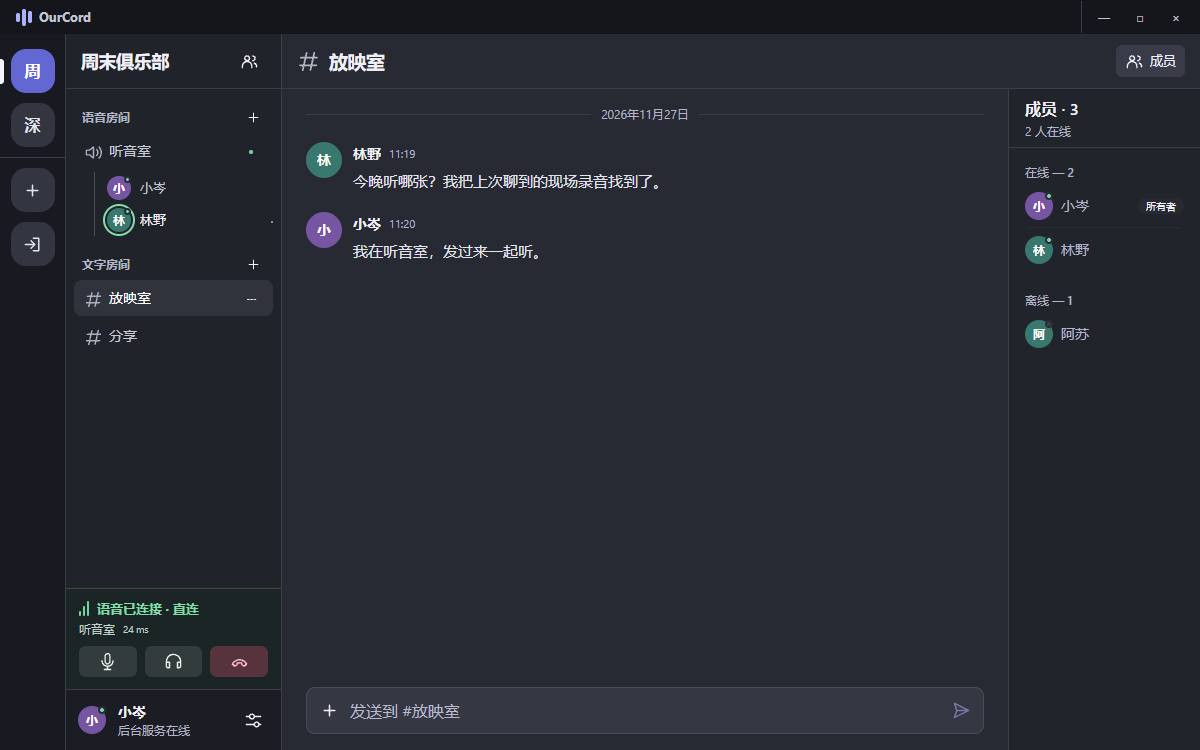
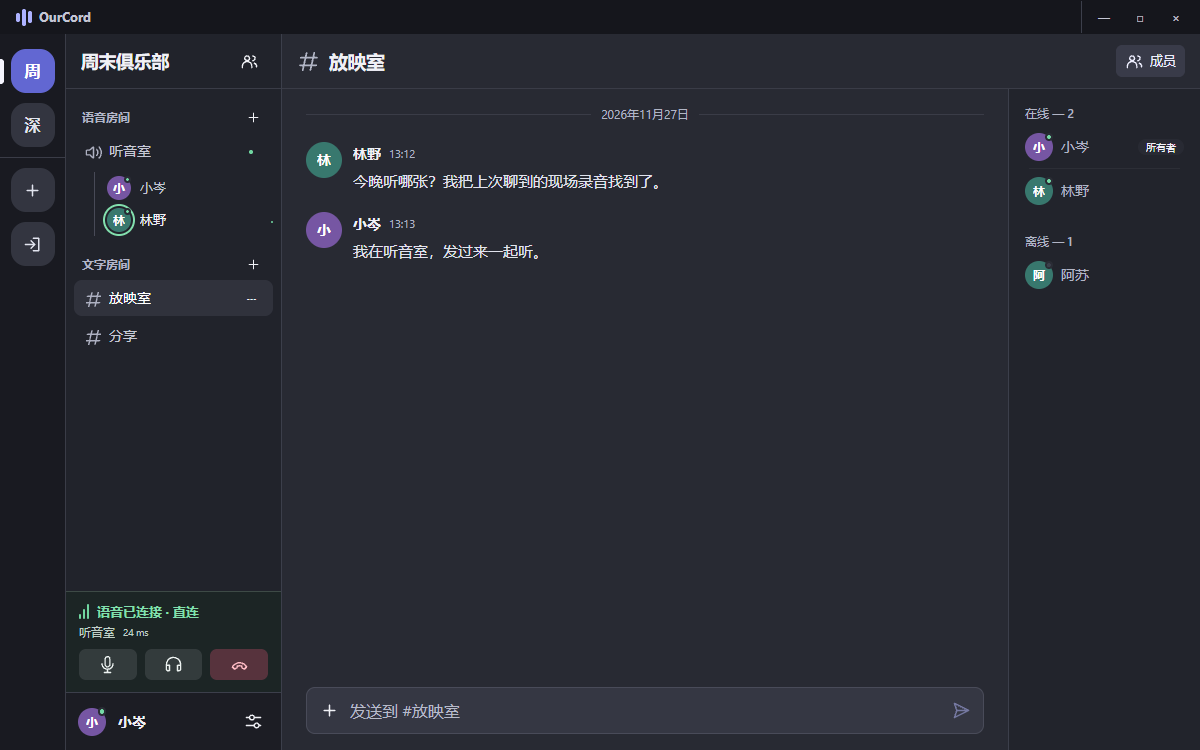
refactor(desktop): remove repeated labels from rooms and settings
Let the channel toolbar, presence groups and day separators establish context once. Keep call state and offline warnings visible, and make participant diagnostics available through a keyboard-accessible disclosure.

diff --git a/ui/desktop/src/styles.css b/ui/desktop/src/styles.css
@@ -126,7 +126,7 @@ button:disabled { cursor: default; }
 .avatar[data-tone="3"] > div { background: #995676; }
 .avatar-online::before { background: #75dba6; }
 .room-directory footer { background: #1c1d24; min-height: 58px; }
-.room-directory footer small, .member-directory header p, .member-directory h3, .member-directory .list-row { color: var(--muted); }
+.member-directory h3, .member-directory .list-row { color: var(--muted); }
 .studio-main, .channel-content, .channel-chat { display: flex; flex-direction: column; min-width: 0; min-height: 0; }
 .studio-main { overflow: hidden; }
 .room-heading { flex: none; display: flex; align-items: center; gap: 9px; }
@@ -137,11 +137,9 @@ button:disabled { cursor: default; }
 .channel-layout { display: flex; flex: 1; min-width: 0; min-height: 0; }
 .channel-content { flex: 1; }
 .channel-chat { flex: 0 0 clamp(275px, 25vw, 365px); border-left: 1px solid var(--line); background: var(--color-base-200); }
-.channel-chat > h2 { flex: none; display: flex; align-items: center; gap: 8px; padding: 11px 15px; border-bottom: 1px solid var(--line); font-size: 14px; font-weight: 650; }
 .channel-chat .message-list { padding-inline: 15px; }
 .channel-chat .message-composer { margin-inline: 10px; }
 .member-directory { flex: 0 0 clamp(172px,16vw,218px); background: #22242c; }
-.member-directory > header { min-height: 56px; }
 .member-directory .list-row { gap: 8px; }
 .message-list { flex: 1; min-height: 0; overflow-y: auto; padding: 16px var(--gutter); }
 .day-rule { display: flex; align-items: center; gap: 10px; color: var(--muted); font-size: 12px; }
@@ -185,14 +183,36 @@ button:disabled { cursor: default; }
 .seat-body > .avatar > div { width: 64px; height: 64px; font-size: 25px; }
 .is-speaking .seat-body > .avatar > div { box-shadow: 0 0 0 6px #38524a; }
 .seat-body > .avatar::before { display: none; }
-.seat-label { position: absolute; left: 11px; right: 22px; bottom: 9px; min-width: 0; font-size: 13px; }
+.seat-label { position: absolute; left: 11px; right: 38px; bottom: 9px; min-width: 0; font-size: 13px; }
 .seat-label strong { justify-content: flex-start; color: #f3f4f8; }
-.seat-label .text-xs { color: #b7bdc9; }
 .talking-label { color: var(--live); }
-.seat-quality { position: absolute; right: 10px; bottom: 10px; }
+.seat-quality { position: absolute; right: 6px; bottom: 6px; }
+.seat-quality summary {
+  display: grid;
+  width: 28px;
+  height: 28px;
+  place-items: center;
+  border-radius: 5px;
+  cursor: pointer;
+  list-style: none;
+}
+.seat-quality summary::-webkit-details-marker { display: none; }
+.seat-quality summary:hover, .seat-quality[open] summary { background: var(--color-base-300); }
+.seat-metrics {
+  position: absolute;
+  right: 0;
+  bottom: calc(100% + 4px);
+  width: max-content;
+  max-width: 148px;
+  padding: 6px 9px;
+  border: 1px solid var(--line);
+  border-radius: 6px;
+  background: var(--tree);
+  color: var(--color-base-content);
+  font-size: 12px;
+}
 .login-layout { height: 100%; overflow-y: auto; display: grid; place-items: center; background: #1c1d24; }
 .login-form { width: min(410px,84%); display: grid; gap: 12px; padding: 32px; margin: 24px; border: 1px solid var(--line); border-radius: 14px; background: #262831; }
-.login-brand { display: flex; align-items: center; gap: 8px; color: #c0c4ff; font-weight: 650; }
 .login-form h1 { margin-bottom: 10px; font-size: 29px; font-weight: 700; }
 .login-form label { font-size: 14px; font-weight: 600; }
 .login-form input, .login-form .btn { min-height: 42px; }

diff --git a/ui/desktop/src/components/RoomPanel.tsx b/ui/desktop/src/components/RoomPanel.tsx
@@ -96,25 +96,30 @@ export default function RoomPanel({ lobby, callControls, selectedRoomID, connect
       {lobby && canManage && <button className="btn btn-ghost btn-sm" onClick={onInvite} aria-label="邀请" title="邀请成员"><Icon name="people" /></button>}
     </header>
     <div className="min-h-0 flex-1 overflow-y-auto px-2 py-3">
-      <div className="menu-title flex h-8 flex-row items-center justify-between px-2 text-xs font-medium text-base-content/45">
-        <span>语音房间</span>{lobby && canManage && <IconButton label="新建语音房间" className="btn-xs" onClick={() => onCreateRoom("voice")}><Icon name="plus" /></IconButton>}
-      </div>
-      <ul className="room-list">
-        {voiceRooms.map((room) => roomRow(room))}
-        {voiceRooms.length === 0 && <li className="px-3 py-2 text-xs text-base-content/40">暂无房间</li>}
-      </ul>
-      <div className="menu-title mt-3 flex h-8 flex-row items-center justify-between px-2 text-xs font-medium text-base-content/45">
-        <span>文字房间</span>{lobby && canManage && <IconButton label="新建文字房间" className="btn-xs" onClick={() => onCreateRoom("text")}><Icon name="plus" /></IconButton>}
-      </div>
-      <ul className="room-list">
-        {textRooms.map((room) => roomRow(room))}
-        {textRooms.length === 0 && <li className="px-3 py-2 text-xs text-base-content/40">暂无房间</li>}
-      </ul>
+      {(voiceRooms.length > 0 || canManage) && <>
+        <div className="menu-title flex h-8 flex-row items-center justify-between px-2 text-xs font-medium text-base-content/45">
+          <span>语音房间</span>{lobby && canManage && <IconButton label="新建语音房间" className="btn-xs" onClick={() => onCreateRoom("voice")}><Icon name="plus" /></IconButton>}
+        </div>
+        <ul className="room-list">
+          {voiceRooms.map((room) => roomRow(room))}
+        </ul>
+      </>}
+      {(textRooms.length > 0 || canManage) && <>
+        <div className="menu-title mt-3 flex h-8 flex-row items-center justify-between px-2 text-xs font-medium text-base-content/45">
+          <span>文字房间</span>{lobby && canManage && <IconButton label="新建文字房间" className="btn-xs" onClick={() => onCreateRoom("text")}><Icon name="plus" /></IconButton>}
+        </div>
+        <ul className="room-list">
+          {textRooms.map((room) => roomRow(room))}
+        </ul>
+      </>}
     </div>
     {callControls}
     <footer className="flex items-center gap-3 border-t border-base-300 bg-base-200 px-3 py-3">
       <InitialAvatar name={accountName ?? "OurCord 用户"} size="sm" online={snapshot.daemon_available} />
-      <div className="min-w-0 flex-1"><strong className="block truncate text-sm">{accountName ?? "OurCord 用户"}</strong><small className="block text-xs text-base-content/45">{snapshot.daemon_available ? "后台服务在线" : "后台服务离线"}</small></div>
+      <div className="min-w-0 flex-1">
+        <strong className="block truncate text-sm">{accountName ?? "OurCord 用户"}</strong>
+        {!snapshot.daemon_available && <small className="block text-xs text-warning">后台服务离线</small>}
+      </div>
       <IconButton label="设置" onClick={onOpenSettings}><Icon name="settings" /></IconButton>
     </footer>
     {menu && <ContextMenu x={menu.x} y={menu.y} items={menu.items} onClose={() => setMenu(null)} />}

diff --git a/ui/desktop/src/components/SettingsModal.tsx b/ui/desktop/src/components/SettingsModal.tsx
@@ -85,9 +85,8 @@ export default function SettingsModal({ snapshot, auth, close, refreshSnapshot, 
         <nav aria-label="设置分类">{(["语音", "账号", "网络"] as const).map((item) =>
           <button key={item} type="button" aria-current={section === item ? "true" : undefined} onClick={() => setSection(item)}>{item}</button>)}
         </nav>
-        <div className="settings-content" key={section}>
+        <section className="settings-content" aria-label={section} key={section}>
           {section === "语音" && <><section className="settings-group">
-            <h3>语音</h3>
           <fieldset className="fieldset">
             <legend className="fieldset-legend">输入模式</legend>
             <select className="select w-full" aria-label="输入模式" value={prefs.mode} onChange={(e) => setPrefs({ ...prefs, mode: e.target.value as VoiceMode })}>
@@ -123,7 +122,6 @@ export default function SettingsModal({ snapshot, auth, close, refreshSnapshot, 
           </section></>}
 
           {section === "账号" && <section className="settings-group">
-            <h3>账号</h3>
             <fieldset className="fieldset"><legend className="fieldset-legend">显示名</legend>
               <input className="input w-full" aria-label="显示名" value={name} maxLength={DISPLAY_NAME_MAX} aria-invalid={nameTooLong || undefined} aria-describedby={nameTooLong ? "display-name-error" : undefined} onChange={(e) => setName(e.target.value)} />
               {nameTooLong && <p id="display-name-error" role="alert" className="text-error">显示名过长，请缩短后保存。</p>}
@@ -133,7 +131,6 @@ export default function SettingsModal({ snapshot, auth, close, refreshSnapshot, 
           </section>}
 
           {section === "网络" && <section className="settings-group">
-            <h3>网络</h3>
             {!snapshot.daemon_available && <div role="alert" className="alert alert-warning"><span>后台服务不可用，正在重试。</span></div>}
             <div className="stats stats-vertical bg-base-100 shadow-sm sm:stats-horizontal">
               <div className="stat px-4 py-3"><div className="stat-title text-xs">后台服务</div><div className="stat-value text-base">{snapshot.daemon_available ? "在线" : "离线"}</div></div>
@@ -146,7 +143,7 @@ export default function SettingsModal({ snapshot, auth, close, refreshSnapshot, 
               {snapshot.status?.vpn_active && <button className="btn btn-sm" onClick={() => void disconnectVPN()}>断开 VPN</button>}
             </div>
           </section>}
-        </div>
+        </section>
       </div>
   </ModalFrame>;
 }

diff --git a/ui/desktop/src/App.auth.test.tsx b/ui/desktop/src/App.auth.test.tsx
@@ -163,7 +163,7 @@ describe("App startup authentication recovery", () => {
     begin = deferred();
     await retry();
     await act(async () => begin.resolve(loginURLs));
-    expect(container.textContent).toContain("欢迎回来");
+    expect(container.querySelector("#login-email")).not.toBeNull();
     const oauthButtons = [...container.querySelectorAll("button")].filter((button) => /Google|GitHub/.test(button.textContent ?? ""));
     expect(oauthButtons).toHaveLength(2);
     expect(oauthButtons.every((button) => !button.disabled)).toBe(true);
@@ -208,7 +208,7 @@ describe("App startup authentication recovery", () => {
     await signInFromDeepLink();
     await act(async () => begin.resolve(loginURLs));
     expect(container.textContent).toContain("加入你的第一个大厅");
-    expect(container.textContent).not.toContain("欢迎回来");
+    expect(container.querySelector("#login-email")).toBeNull();
   });
 
   it("does not start PKCE setup from a stale status while a callback is exchanging", async () => {
@@ -235,7 +235,7 @@ describe("App startup authentication recovery", () => {
     await act(async () => status.resolve({ authenticated: false }));
     expect(calls("auth.begin")).toHaveLength(1);
     await act(async () => begin.resolve(loginURLs));
-    expect(container.textContent).toContain("欢迎回来");
+    expect(container.querySelector("#login-email")).not.toBeNull();
   });
 
   it("recovers a failed startup URL event using the same verifier when getCurrent is empty", async () => {
@@ -280,7 +280,7 @@ describe("App startup authentication recovery", () => {
     await retry();
     expect(vi.mocked(getCurrent)).toHaveBeenCalledTimes(2);
     expect(calls("auth.begin")).toHaveLength(1);
-    expect(container.textContent).toContain("欢迎回来");
+    expect(container.querySelector("#login-email")).not.toBeNull();
   });
 
   it("preserves the original verifier when a cold-start exchange fails transiently", async () => {
@@ -330,7 +330,7 @@ describe("App startup authentication recovery", () => {
     await act(async () => restart!.click());
     expect(calls("auth.begin")).toHaveLength(1);
     expect(calls("auth.begin")[0][1]).toEqual({ restart: true });
-    expect(container.textContent).toContain("欢迎回来");
+    expect(container.querySelector("#login-email")).not.toBeNull();
   });
 
   it("exchanges a one-time callback only once across startup and URL events", async () => {

diff --git a/ui/desktop/src/components/ChatPane.tsx b/ui/desktop/src/components/ChatPane.tsx
@@ -15,10 +15,7 @@ const POLL_MS = 3000;
 
 function formatTime(createdAt: number): string {
   const date = new Date(createdAt * 1000);
-  const today = new Date();
-  const sameDay = date.toDateString() === today.toDateString();
-  const time = date.toLocaleTimeString([], { hour: "2-digit", minute: "2-digit" });
-  return sameDay ? time : `${date.toLocaleDateString()} ${time}`;
+  return date.toLocaleTimeString([], { hour: "2-digit", minute: "2-digit" });
 }
 
 export default function ChatPane({ room, composers, myUserID, canModerate, getName, ensureNames, onError, onCopy, onNotice }: {
@@ -210,7 +207,7 @@ export default function ChatPane({ room, composers, myUserID, canModerate, getNa
           <div className="message-avatar"><InitialAvatar name={getName(message.user_id)} /></div>
           <header className="message-author mb-1 flex items-center gap-2 text-xs text-base-content/55">
               <strong className="text-sm text-base-content">{getName(message.user_id)}</strong>
-              <time>{formatTime(message.created_at)}</time>
+              <time dateTime={new Date(message.created_at * 1000).toISOString()}>{formatTime(message.created_at)}</time>
               {(message.user_id === myUserID || canModerate) && (
                 <Tooltip label="删除消息"><button aria-label="删除消息" className="btn btn-ghost btn-circle btn-xs text-error" onClick={() => void remove(message)}>×</button></Tooltip>
               )}
@@ -225,8 +222,8 @@ export default function ChatPane({ room, composers, myUserID, canModerate, getNa
                   <span className="card-body flex-row items-center gap-3 p-3">
                     <Icon name="attach" />
                     <span className="min-w-0 flex-1">
-                      <strong className="block truncate text-sm">{file?.filename ?? "附件"}</strong>
-                      <small className="block text-xs text-base-content/50">{file ? formatBytes(file.size_bytes) : "点击下载"}</small>
+                      <strong className="block truncate text-sm">{file?.filename ?? "下载附件"}</strong>
+                      {file && <small className="block text-xs text-base-content/50">{formatBytes(file.size_bytes)}</small>}
                     </span>
                     {downloading === fileID && <Spinner />}
                   </span>

diff --git a/ui/desktop/src/components/DiagnosticsModal.tsx b/ui/desktop/src/components/DiagnosticsModal.tsx
@@ -74,7 +74,7 @@ export default function DiagnosticsModal({ snapshot, close, onError }: {
         </Tooltip></div>
 
         <section className="card card-border bg-base-200"><div className="card-body gap-3 p-5">
-          <h3 className="card-title text-base">Peer <span className="badge badge-ghost badge-sm">{peers.length}</span></h3>
+          <h3 className="card-title text-base">Peer {peers.length > 0 && <span className="badge badge-ghost badge-sm">{peers.length}</span>}</h3>
           {peers.length === 0 && <div className="py-4 text-sm text-base-content/45">暂无已连接 Peer</div>}
           <ul className="list rounded-box bg-base-100">
           {peers.map((peer) => <li key={peer.public_key} className="list-row items-center gap-3">
@@ -120,7 +120,7 @@ export default function DiagnosticsModal({ snapshot, close, onError }: {
               <strong className="flex items-center gap-2 truncate">{device.name || shortKey(device.public_key)}
                 {device.public_key === profile?.public_key && <span className="badge badge-primary badge-soft badge-xs">本机</span>}
               </strong>
-              <small className="block truncate font-mono text-base-content/45">{shortKey(device.public_key)} · {relativeTime(device.last_used)}</small>
+              <small className="block truncate font-mono text-base-content/45">{device.name && `${shortKey(device.public_key)} · `}{relativeTime(device.last_used)}</small>
             </div>
             <button className="btn btn-error btn-soft btn-sm" disabled={device.public_key === profile?.public_key} onClick={() => void revoke(device)}>吊销</button>
           </li>)}

diff --git a/ui/desktop/src/components/MemberPanel.tsx b/ui/desktop/src/components/MemberPanel.tsx
@@ -36,13 +36,7 @@ export default function MemberPanel({ members, loading, getName, onCopy }: {
     </li>;
   }
 
-  return <aside className="member-directory flex min-w-0 flex-col border-l border-base-300 bg-base-100">
-    <header className="navbar min-h-16 shrink-0 border-b border-base-300 px-4">
-      <div className="min-w-0 flex-1">
-        <h2 className="font-semibold">成员{loading ? "" : ` · ${members.length}`}</h2>
-        {!loading && <p className="mt-0.5 text-xs text-base-content/45">{onlineMembers.length} 人在线</p>}
-      </div>
-    </header>
+  return <aside aria-label="成员" aria-busy={loading} className="member-directory flex min-w-0 flex-col border-l border-base-300 bg-base-100">
     <div className="min-h-0 flex-1 overflow-y-auto p-2">
       {loading && members.length === 0
         ? <ul className="list">{[0, 1, 2].map((index) => <li key={index} className="list-row items-center px-2 py-2">
@@ -50,6 +44,7 @@ export default function MemberPanel({ members, loading, getName, onCopy }: {
             <div className="skeleton h-3" style={{ width: `${42 + index * 12}%` }} />
           </li>)}</ul>
         : <>
+          {members.length === 0 && <p className="px-2 py-3 text-sm">暂无成员</p>}
           {onlineMembers.length > 0 && <section>
             <h3 className="px-2 pb-1 pt-2 text-xs font-medium text-base-content/45">在线 — {onlineMembers.length}</h3>
             <ul className="list">{onlineMembers.map((member) => memberRow(member, true))}</ul>

diff --git a/ui/desktop/src/App.tsx b/ui/desktop/src/App.tsx
@@ -547,7 +547,6 @@ export default function App() {
         : !selectedRoom
           ? <div className="flex-1"><EmptyState icon={<SignalMark />} title={!selectedLobby ? "加入你的第一个大厅" : selectedLobby.rooms.length ? "选择一个房间" : "大厅里还没有房间"}>
               {!selectedLobby && <button className="btn btn-primary" onClick={() => void promptAction("joinLobby")}>加入大厅</button>}
-              {!!selectedLobby?.rooms.length && "从左侧选择房间，开始聊天或通话。"}
               {selectedLobby?.rooms.length === 0 && (canManage
                 ? <button className="btn btn-primary" onClick={() => void createRoom("text")}>创建文字房间</button>
                 : "等待大厅管理员创建房间。")}
@@ -556,7 +555,7 @@ export default function App() {
           ? <div className="flex-1"><EmptyState icon={<span className="loading loading-ring loading-lg" />} title="正在连接语音" /></div>
           : <VoiceStage snapshot={snapshot} selfName={auth.profile?.user?.display_name} />}
       </div>
-      {sideChat && <aside className="channel-chat" aria-label="语音频道聊天"><h2><Icon name="chat" />频道聊天</h2>{chat}</aside>}
+      {sideChat && <aside className="channel-chat" aria-label="语音频道聊天">{chat}</aside>}
       {showMembers && <MemberPanel members={members} loading={membersLoading} getName={getName}
       onCopy={(text, label) => void copyText(text, label)} />}
       </div>

diff --git a/ui/desktop/src/components/VoiceStage.tsx b/ui/desktop/src/components/VoiceStage.tsx
@@ -32,13 +32,17 @@ export default function VoiceStage({ snapshot, selfName }: { snapshot: Snapshot;
         <InitialAvatar name={peerName} size="lg" online={participant.speaking} />
         <div className="seat-label">
           <strong className="flex flex-wrap justify-center items-center gap-1">{peerName}
-            {participant.secure && <Tooltip label="端到端加密"><span className="badge badge-success badge-soft badge-xs">加密</span></Tooltip>}
             {peer?.flapping && <Tooltip label="路径抖动"><span className="badge badge-warning badge-soft badge-xs">抖动</span></Tooltip>}
           </strong>
           {participant.speaking && <small className="talking-label">说话中</small>}
-          <span className="mt-1 block truncate text-xs text-base-content/50">{metrics}</span>
         </div>
-        <div className="seat-quality"><SignalBars quality={quality} title={metrics} /></div>
+        <details className="seat-quality">
+          <summary title="连接详情"><span className="sr-only">{peerName}的连接详情</span><SignalBars quality={quality} /></summary>
+          <div className="seat-metrics">
+            {participant.secure && <p>端到端加密</p>}
+            <p>{metrics}</p>
+          </div>
+        </details>
         </div>
       </article>;
     })}

diff --git a/ui/desktop/src/components/SignalBars.tsx b/ui/desktop/src/components/SignalBars.tsx
@@ -1,14 +1,15 @@
 import { qualityBars, type Quality } from "../quality";
-import { Tooltip, cx } from "./ui";
+import { cx } from "./ui";
 
 // Three-bar signal indicator (Discord-style). Colored by grade; empty bars
 // dim. "unknown" renders all-dim so a not-yet-reported peer looks neutral.
-export default function SignalBars({ quality, title }: { quality: Quality; title?: string }) {
+const labels: Record<Quality, string> = { good: "良好", fair: "一般", poor: "较差", unknown: "未知" };
+
+export default function SignalBars({ quality }: { quality: Quality }) {
   const filled = qualityBars(quality);
   const tone = quality === "good" ? "bg-success" : quality === "fair" ? "bg-warning" : quality === "poor" ? "bg-error" : "bg-base-content/20";
-  const meter = <span className="inline-flex h-4 items-end gap-0.5" role="img" aria-label={`连接质量 ${quality}`}>
+  return <span className="inline-flex h-4 items-end gap-0.5" role="img" aria-label={`连接质量${labels[quality]}`}>
     {[1, 2, 3].map((bar) => <i key={bar} className={cx("block w-0.5 rounded-selector", bar <= filled ? tone : "bg-base-content/20")}
       style={{ height: `${bar * 5}px` }} />)}
   </span>;
-  return title ? <Tooltip label={title}>{meter}</Tooltip> : meter;
 }

diff --git a/ui/desktop/src/components/Login.tsx b/ui/desktop/src/components/Login.tsx
@@ -1,8 +1,5 @@
 import { useEffect, useState, type CSSProperties } from "react";
 
-
-import { SignalMark } from "./ui";
-
 export default function Login({ busy, cooldownSeconds, loginURLs, onMagic, onOAuth }: {
   busy: boolean;
   cooldownSeconds: number;
@@ -31,8 +28,7 @@ export default function Login({ busy, cooldownSeconds, loginURLs, onMagic, onOAu
       event.preventDefault();
       if (canSend) onMagic(address);
     }}>
-      <div className="login-brand"><SignalMark />OurCord</div>
-      <h1>欢迎回来</h1>
+      <h1>登录</h1>
       <label htmlFor="login-email">邮箱地址</label>
       <input id="login-email" className="input w-full" type="email" required autoComplete="email"
         value={email} onChange={(event) => setEmail(event.target.value)} placeholder="name@example.com" />

diff --git a/ui/desktop/src/components/MemberPanel.test.tsx b/ui/desktop/src/components/MemberPanel.test.tsx
@@ -13,11 +13,11 @@ describe("MemberPanel", () => {
       <MemberPanel members={members} loading={false} getName={(id) => id === "owner" ? "Alice" : "Bob"} onCopy={() => undefined} />,
     );
 
-    expect(html).toContain("成员 · 2");
+    expect(html).toContain('aria-label="成员"');
     expect(html).toContain("Alice");
     expect(html).toContain("Bob");
     expect(html).toContain("所有者");
-    expect(html).toContain("1 人在线");
+    expect(html).not.toContain("人在线");
     expect(html).toContain("在线 — 1");
     expect(html).toContain("离线 — 1");
     expect(html).toContain("avatar-online");
